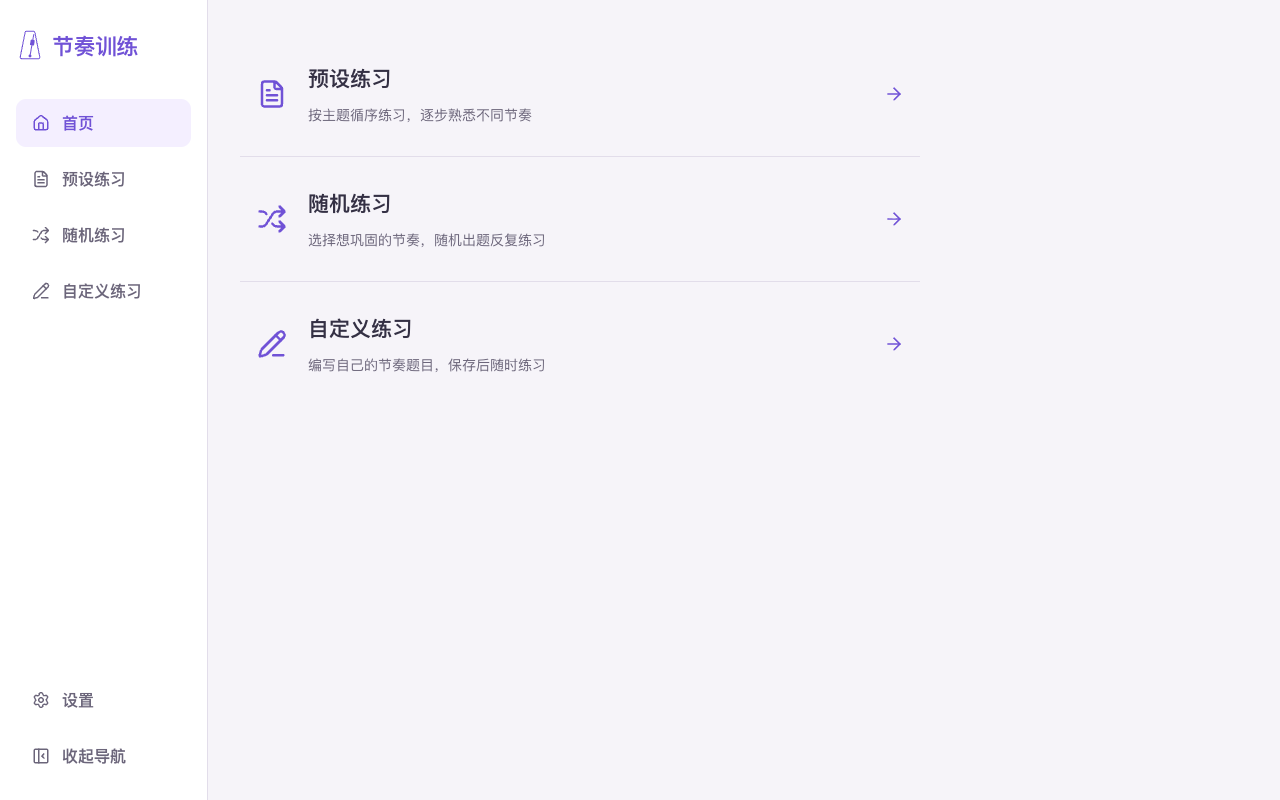
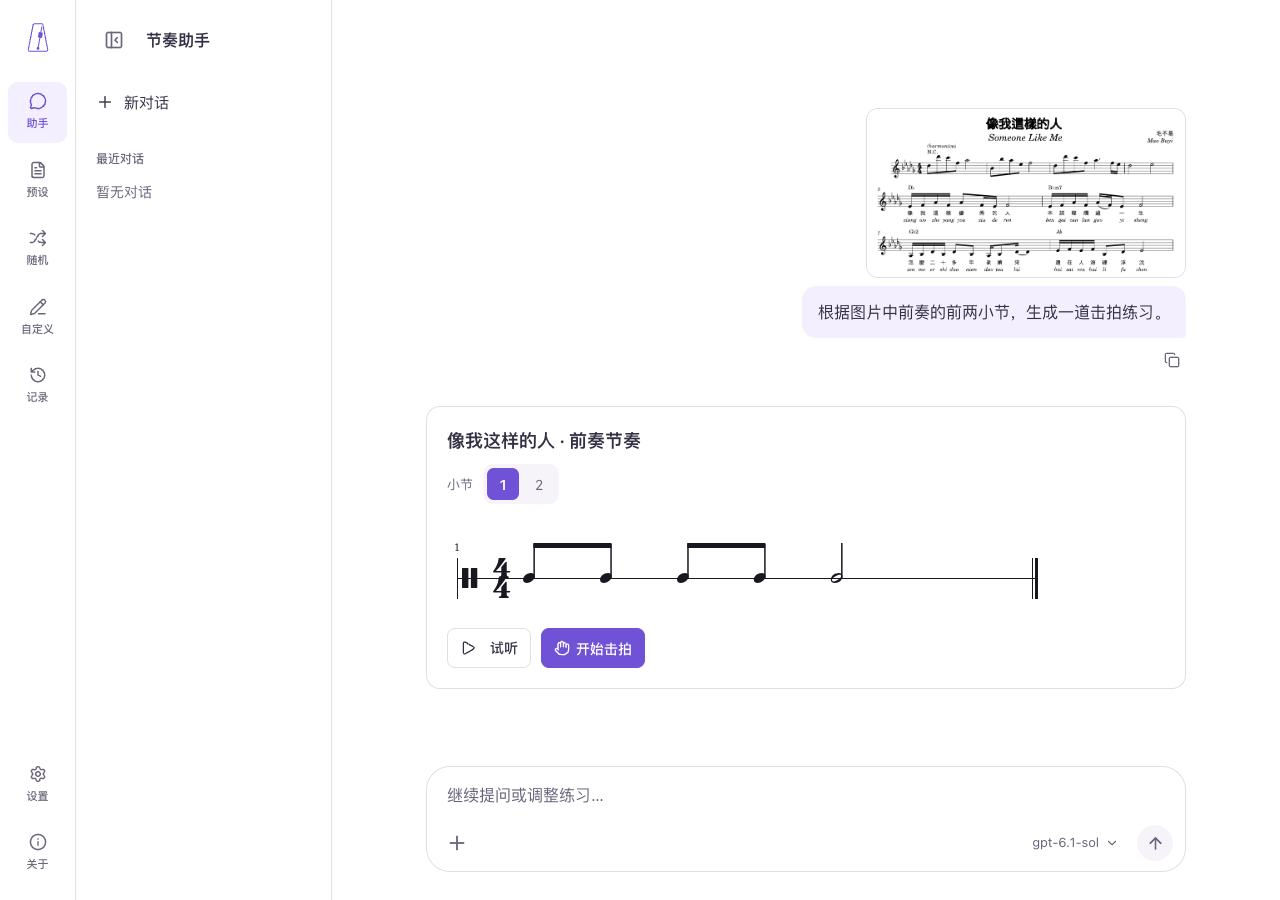
docs: 更新项目介绍与核心练习演示

diff --git a/README.md b/README.md
@@ -1,32 +1,33 @@
 # 节奏训练
 
+一个面向音乐自学者的节奏训练工具，支持自由编写、调整练习题目，可借助 AI 讲解节奏、辅助出题，按自己的需要开展击拍与听写训练。
+
+![AI 助手根据乐谱图片生成节奏练习，支持试听并打开练习面板](docs/media/overview.png)
+
 ## 核心功能
 
-### 总览
+- **两种练习模式**：击拍练习与节奏听写练习
+- **四类题目来源**：预设题目、随机生成、自定义编写，以及 AI 助手根据文字或乐谱图片生成题目
+  - 自由编辑：支持修改 AI、随机和自定义题目，并保存到自定义题库
+- **AI 助手**：
+  - 支持 DeepSeek API Key 和 ChatGPT 订阅授权
+  - 支持多轮问答、节奏讲解和练习生成
+  - 可结合当前页面、题目和练习表现回答问题
+- **练习记录**：自动保存击拍与听写记录，支持按时间、练习模式筛选，查看每道题的历史结果
 
-一个节奏训练工具，目前支持击拍练习、节奏听写两种模式，支持预设练习、随机练习、自定义练习，以及 AI 对话出题与节奏讲解。
-
-![首页总览：预设练习、随机练习与自定义练习入口](docs/media/overview.png)
+## 功能演示
 
 ### 击拍练习
 
-跟随谱面按空格键击拍，查看每次击拍的准确度与整轮结果。
+试听节奏，按空格键击拍，查看每次击拍的准确度与整轮结果。
 
-![击拍练习：预备拍、空格击拍与判定反馈](docs/media/tapping.gif)
+![击拍练习：试听、空格击拍与判定反馈](docs/media/tapping.gif)
 
 ### 节奏听写
 
-聆听题目，输入音符与休止符，逐小节验证答案。
+聆听题目，填写节奏，逐小节验证答案，完成整段节奏听写。
 
 ![节奏听写：播放题目、输入节奏与验证答案](docs/media/dictation.gif)
-
-_动图仅演示操作，不含声音。_
-
-## 技术栈
-
-- **前端**：React、TypeScript、Vite；React Router（路由）、Lucide（图标）、react-markdown（Markdown 渲染）、VexFlow（谱面渲染）、Web Audio API（音频与节拍调度）；AI SDK UI（助手流式消息）
-- **后端**：Python、FastAPI；SQLite、SQLAlchemy、Alembic（数据存储与迁移）；Pydantic AI（模型接入与工具调用）、OpenAI Python SDK（DeepSeek 与 ChatGPT 订阅 Responses）
-- **部署**：Docker、Nginx
 
 ## 快速启动（Docker）
 
@@ -38,15 +39,19 @@ _动图仅演示操作，不含声音。_
    cp .env.example .env
    ```
 
-2. 默认配置即可启动；模型服务可以启动后在网页中配置
-
-3. 启动：
+2. 启动：
 
    ```sh
    docker compose up -d --build
    ```
 
-打开 <http://localhost:8080> 即可使用
+打开 <http://localhost:8080> 即可使用。使用 AI 助手前，在「设置 → 模型服务」中配置模型。
+
+## 技术栈
+
+- **前端**：React、TypeScript、Vite；React Router（路由）、Lucide（图标）、react-markdown（Markdown 渲染）、VexFlow（谱面渲染）、Web Audio API（音频与节拍调度）；AI SDK UI（助手流式消息）
+- **后端**：Python、FastAPI；SQLite、SQLAlchemy、Alembic（数据存储与迁移）；Pydantic AI（模型接入与工具调用）、OpenAI Python SDK（DeepSeek 与 ChatGPT 订阅 Responses）
+- **部署**：Docker、Nginx
 
 ## TODO
 
@@ -82,11 +87,8 @@ _动图仅演示操作，不含声音。_
 ### 界面与交互
 
 - [ ] 检查UI/UX一致性
-- [ ] 为预设题目提供不同的展示方式/视图（目前都是文字）
+- [ ] 为预设题目提供不同视图（目前都是文字）
 
 ### 文档维护
 
-- [ ] 更新 README 中的界面截图与操作演示 GIF
-- [ ] 更新功能介绍与使用说明，使其与当前实现一致
-- [ ] 补充 AI 助手出题、练习与编辑保存的操作演示
 - [ ] 更新前后端README
